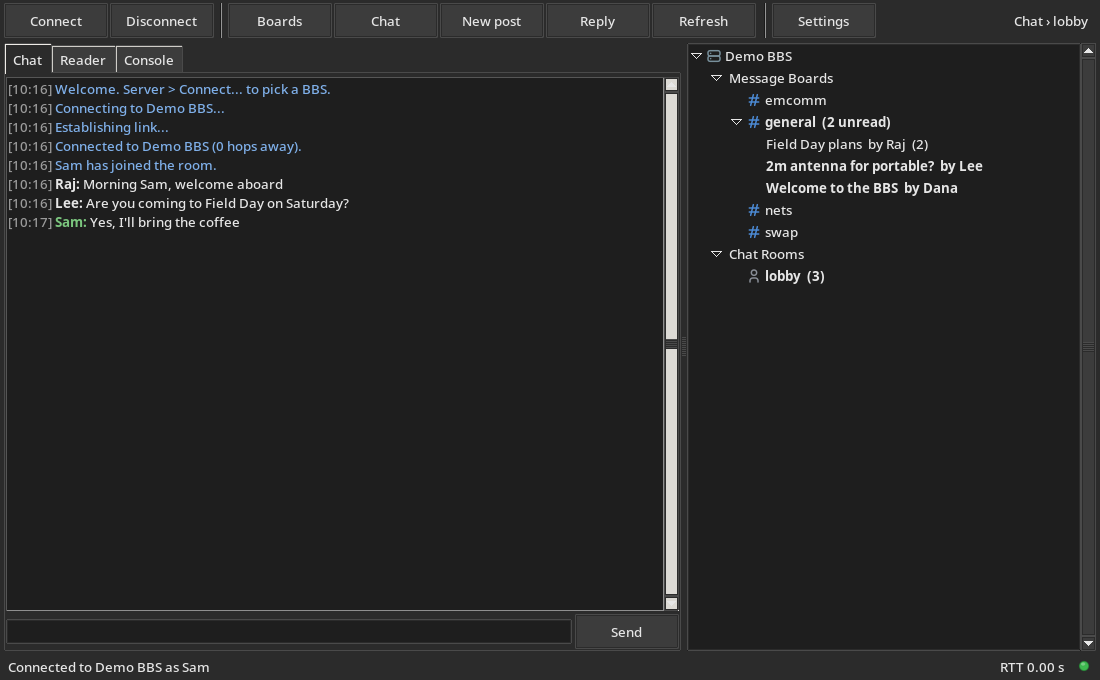
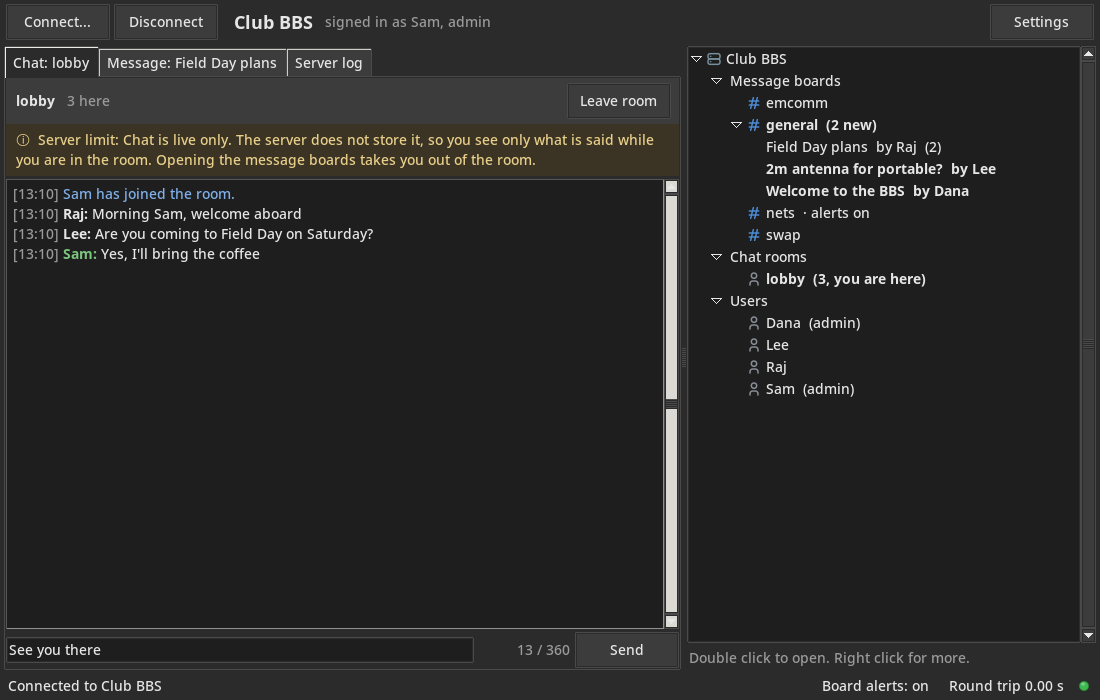
chore: README layout, limits and screenshots for the new UI

diff --git a/README.md b/README.md
@@ -1,33 +1,74 @@
 # retibbs_client
 
 A desktop client for [RetiBBS](https://github.com/kc1awv/RetiBBS), the bulletin board system for Reticulum networks.
-It uses the look and layout of [partyline](https://github.com/RFnexus/partyline): a server tree on the right, chat
-and reading on the left, light and dark themes.
+It uses the look and layout of [partyline](https://github.com/RFnexus/partyline), with light and dark themes.
 
-RetiBBS ships with a terminal (Textual) client where you type menu commands. This client turns the boards, messages
-and chat rooms into a clickable tree, opens messages in a reader, and gives you post and reply dialogs. A Console
-tab still shows everything the server sends and takes raw commands.
+RetiBBS ships with a terminal (Textual) client where you type menu commands. This client turns the boards, messages,
+chat rooms and users into a clickable list, opens messages in a reader, gives you post and reply dialogs, and shows
+the server's limits where they apply.
 
 Reading a message (light theme):
 
-![Reading a message in the light theme](docs/reader_light.png)
+![Reading a message in the light theme](docs/message_light.png)
 
-Chatting in a room (dark theme):
+Chatting in a room, as an admin with the user list loaded (dark theme):
 
 ![Chatting in a room in the dark theme](docs/chat_dark.png)
+
+Writing a post that is too long for one packet, with the limit of a LoRa link:
+
+![The post dialog over its size limit](docs/post_dialog.png)
+
+Settings, with the address for board alerts:
+
+![The settings dialog](docs/settings_dialog.png)
+
+## Layout
+
+- Toolbar: the connection only. Connect, Disconnect, the BBS name and who you are signed in as, and Settings.
+- Right: everything on the BBS. Message boards and their messages, chat rooms, and Users for admins. Double click
+  to open, right click for more.
+- Left: three tabs, each with its own buttons in its header.
+  - Chat: the room you are in, with Leave room and a counter for the message size.
+  - Message: the post you opened, with Reply and New post.
+  - Server log: everything the server sends. Type any RetiBBS command here.
+- A strip under the toolbar shows the server's answers: errors in red, confirmations in blue.
+- Status bar: connection, board alerts on or off, and round trip time.
+
+## Features
+
+- Boards with new message counts, paging, and a reader for messages and their replies
+- New post and reply dialogs that count bytes against the packet limit of your connection
+- Chat rooms: join, leave, start one, with a size counter on every message
+- Board alerts: set your LXMF address in Settings, send a test, and turn alerts on per board
+- Admins: list users, make admins, create and delete boards
+- Your own name for each BBS, kept when the server announces a different one
+- Asks for a display name on first connect, since RetiBBS needs one before it answers
+
+## Server limits
+
+These come from the RetiBBS server, not from this client. The client marks them with a yellow Server limit note where
+they apply, and lists them under Help > Server limits.
+
+- Posts and replies must fit in one Reticulum packet, topic included. The size depends on the slowest link to the
+  server: a few hundred bytes over LoRa or packet radio, far more over TCP or a local network.
+- Posts cannot be edited or deleted. Only admins can delete a board, with all its messages.
+- Chat is live only and not stored. You see only what is said while you are in the room.
+- You stay in a room only while you are in the chat area. Opening the boards, changing your name or alert address,
+  or listing users takes you out of the room. The client asks first.
+- Each chat message must also fit in one packet, together with the room and your name.
+- No file sharing.
+- Board alerts go to another LXMF app, such as Sideband, Columba, MeshChat or NomadNet. This client cannot receive
+  them. An alert address can be replaced but not removed; turn alerts off per board instead.
+- Each BBS allows a display name only once. Board names are 3 to 20 letters or digits.
+- RetiBBS has no command to take admin rights away.
 
 ## How it works
 
 RetiBBS servers reply with text meant for people plus a few control packets (`CTRL AREA`, `CTRL BOARD`,
-`CTRL ROOM`). The client recognises the replies it needs (board list, message list, a message, room list, chat
-lines) by their wording and shows anything else in the Console tab. It also moves between the server's areas for
-you: opening a board sends `b`, `cb <board>`, `lm`; joining a room sends `/b`, `c`, `/j <room>`.
-
-Limits that come from the server:
-
-- Leaving the chat area leaves your chat room. Opening the boards while in a room asks first.
-- A post or reply must fit in one Reticulum packet. The limit depends on the link; the post dialog shows it.
-- The server cannot answer "who am I" until you have a display name. Set one in Settings.
+`CTRL ROOM`). The client recognises the replies it needs by their wording and shows everything in the Server log. It
+also moves between the server's areas for you: opening a board sends `b`, `cb <board>`, `lm`; joining a room sends
+`/b`, `c`, `/j <room>`.
 
 ## Compatibility
 
@@ -83,15 +124,23 @@ Use another Reticulum configuration:
 .venv/bin/retibbs-gui --reticulum-config ~/.reticulum-test
 ```
 
-In the window:
+First steps in the window:
 
-- Server > Connect opens Favourites and Discovered servers (from announces). Double click one to connect.
-- Double click a board to list its messages. Unread messages are bold. Double click a message to read it.
-- Toolbar New post and Reply open dialogs. Right click a board to watch it for LXMF alerts.
-- Double click a chat room to join it. Right click Chat Rooms to create one. Type in the Chat tab to talk.
-- Commands typed in the Chat tab that start with `/` go to the server's chat area (`/list`, `/leave`).
-- The Console tab shows the server's own menus and takes any RetiBBS command, for example `?` or `wl`.
-- Admins also get New board and Delete board on right click.
+1. Connect... lists your saved BBSes and the ones heard on the network. Pick one or paste its address. Type a Name
+   if you want your own name for it, then Connect.
+2. On the first connection, pick a display name.
+3. Double click a board to list its messages; new ones are bold. Double click a message to read it.
+4. Double click a chat room to join it, or right click Chat rooms to start one.
+
+More:
+
+- Board alerts: Settings > Board alerts, paste the LXMF address of your phone or other LXMF app, Send test. Then
+  right click a board and tick Alert me about new posts.
+- Rename a BBS: right click its name at the top of the list, or Server > Rename this BBS.
+- Commands typed in the Chat box that start with `/` go to the server's chat area, for example `/list`.
+- Admins: double click Users to load them; right click a user to make them an admin. Right click Message boards for
+  New board, or a board for Delete board.
+- Keys: Ctrl+O connect, Ctrl+N new post, F5 refresh, Ctrl+1, 2 and 3 for the tabs.
 
 Settings and saved servers live in `~/.config/retibbs-gui/`.
 
@@ -108,4 +157,6 @@ Settings and saved servers live in `~/.config/retibbs-gui/`.
 
 ## Revision history
 
+- 0.2.0: Clearer layout with per tab buttons, server limits marked, board alerts, user list for admins, own names
+  for each BBS, fix for the OK button in name prompts
 - 0.1.0: First prototype
